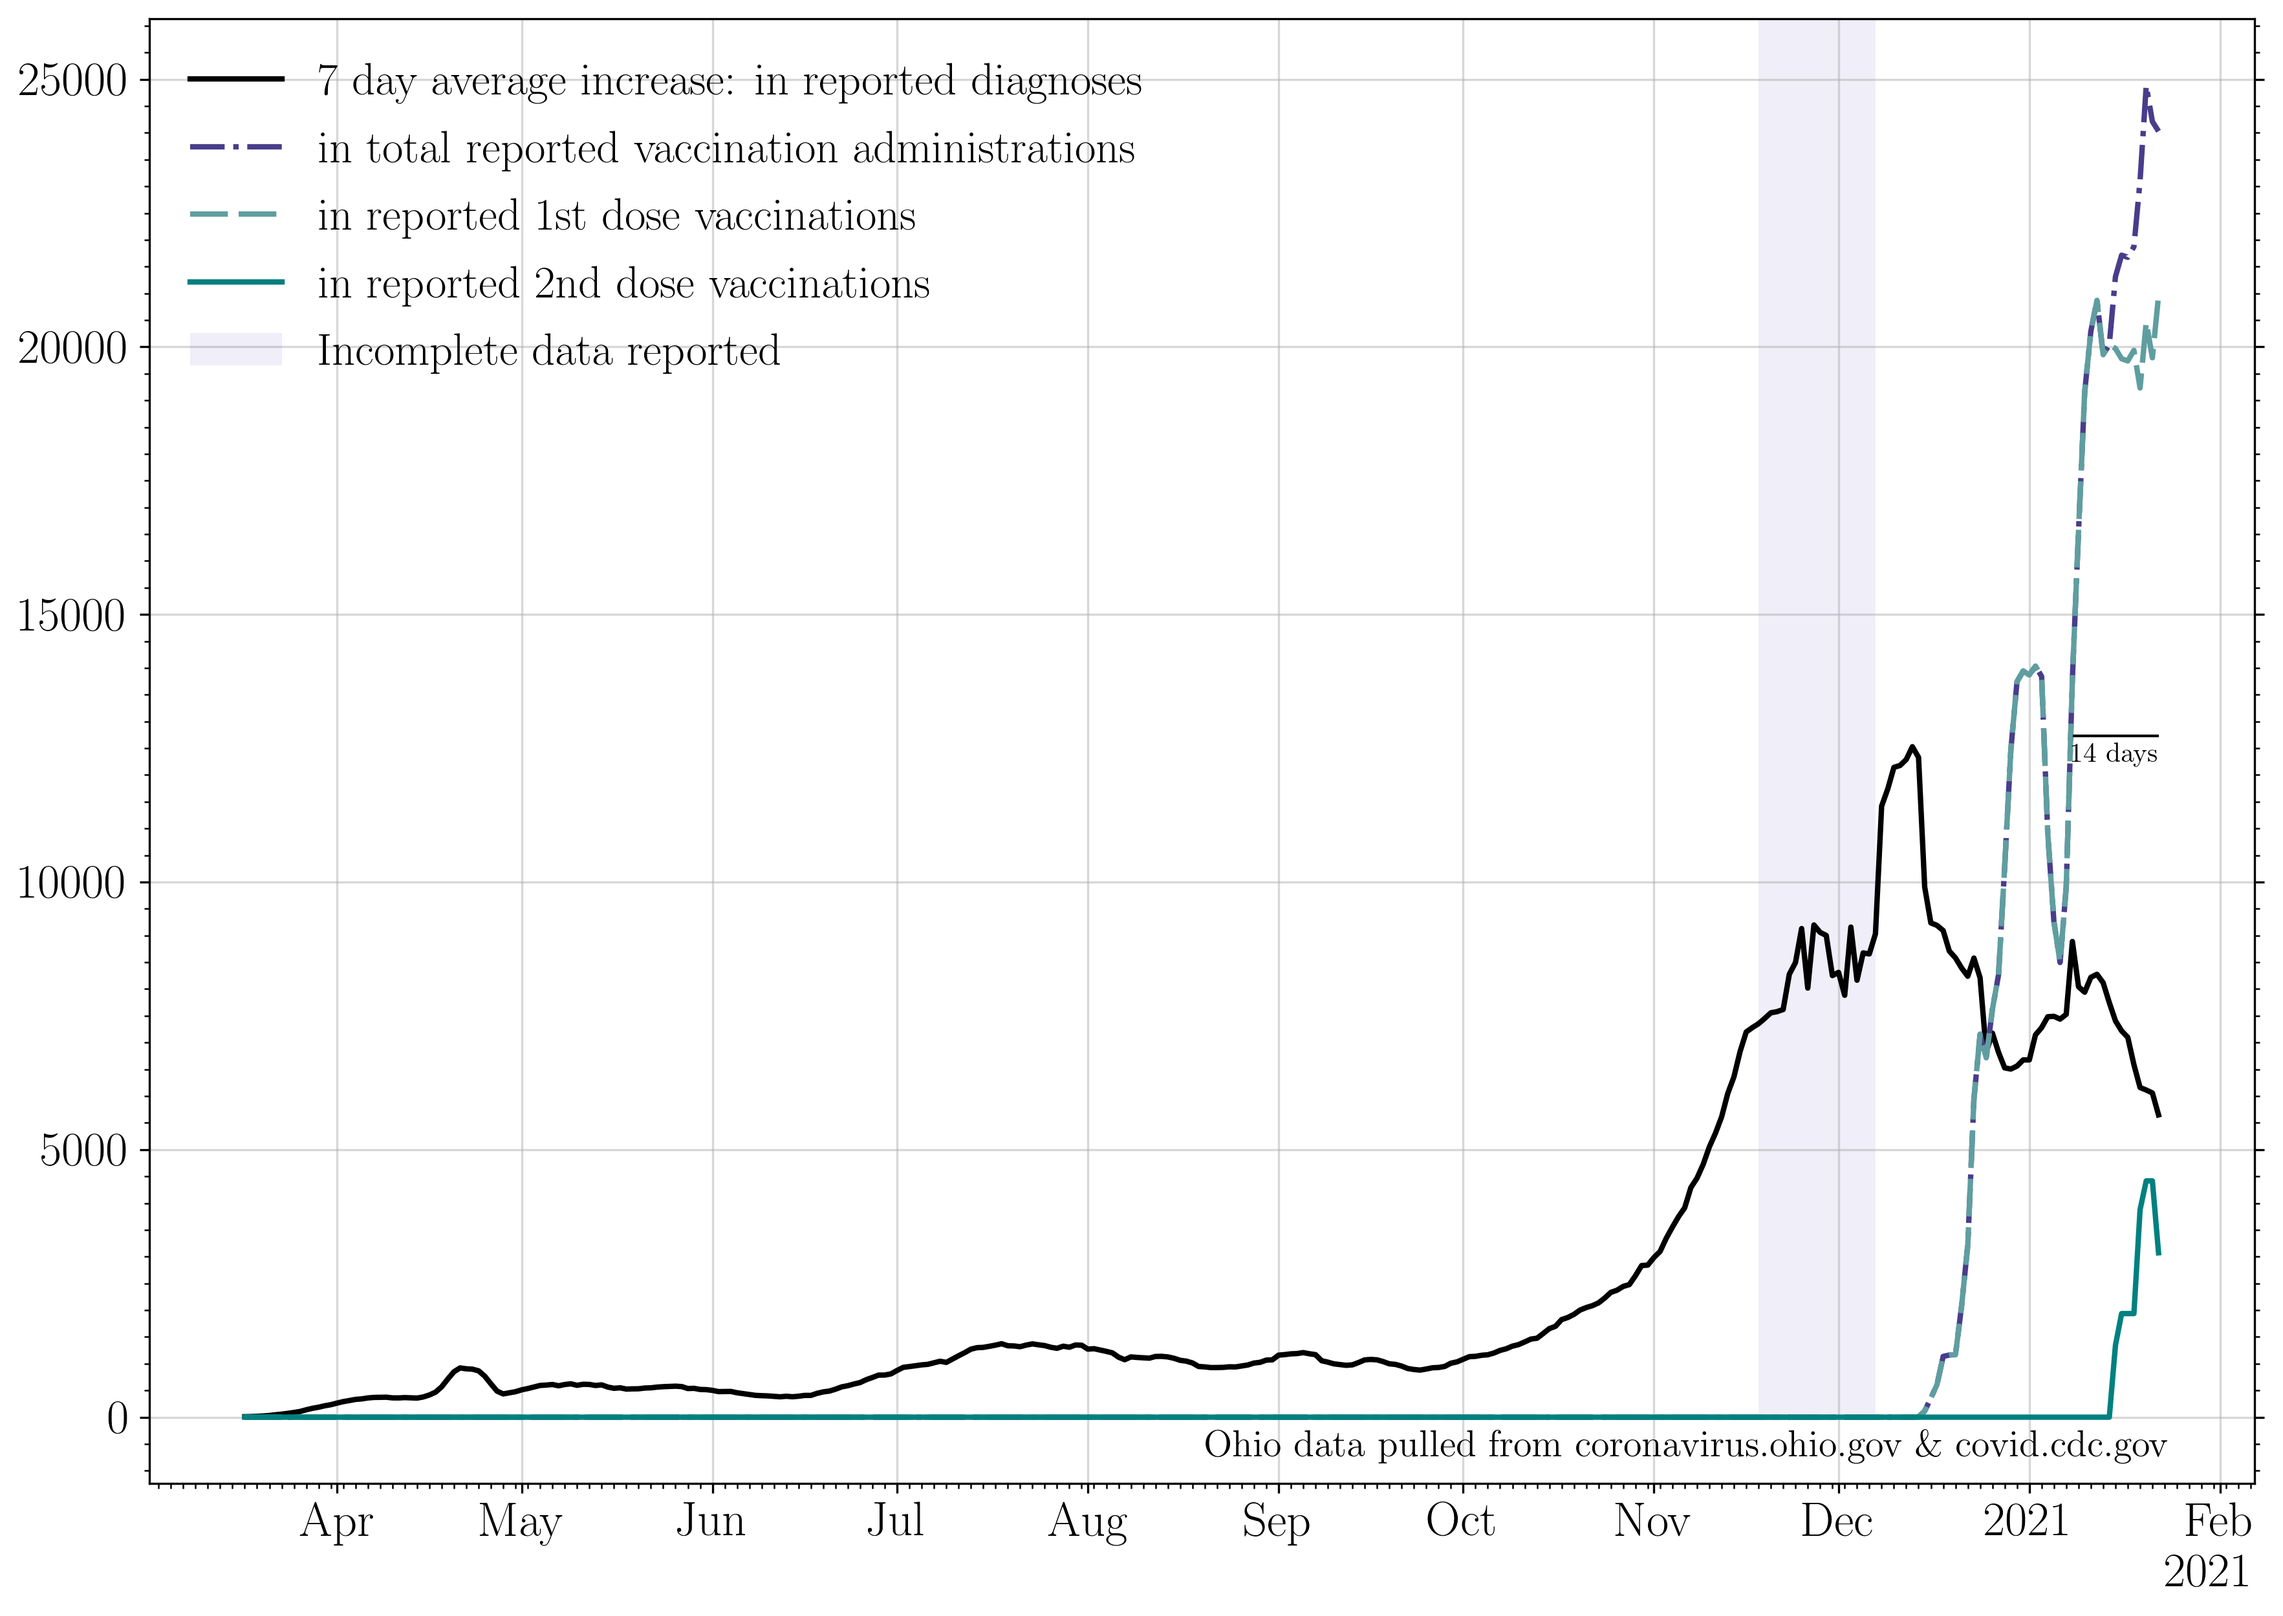
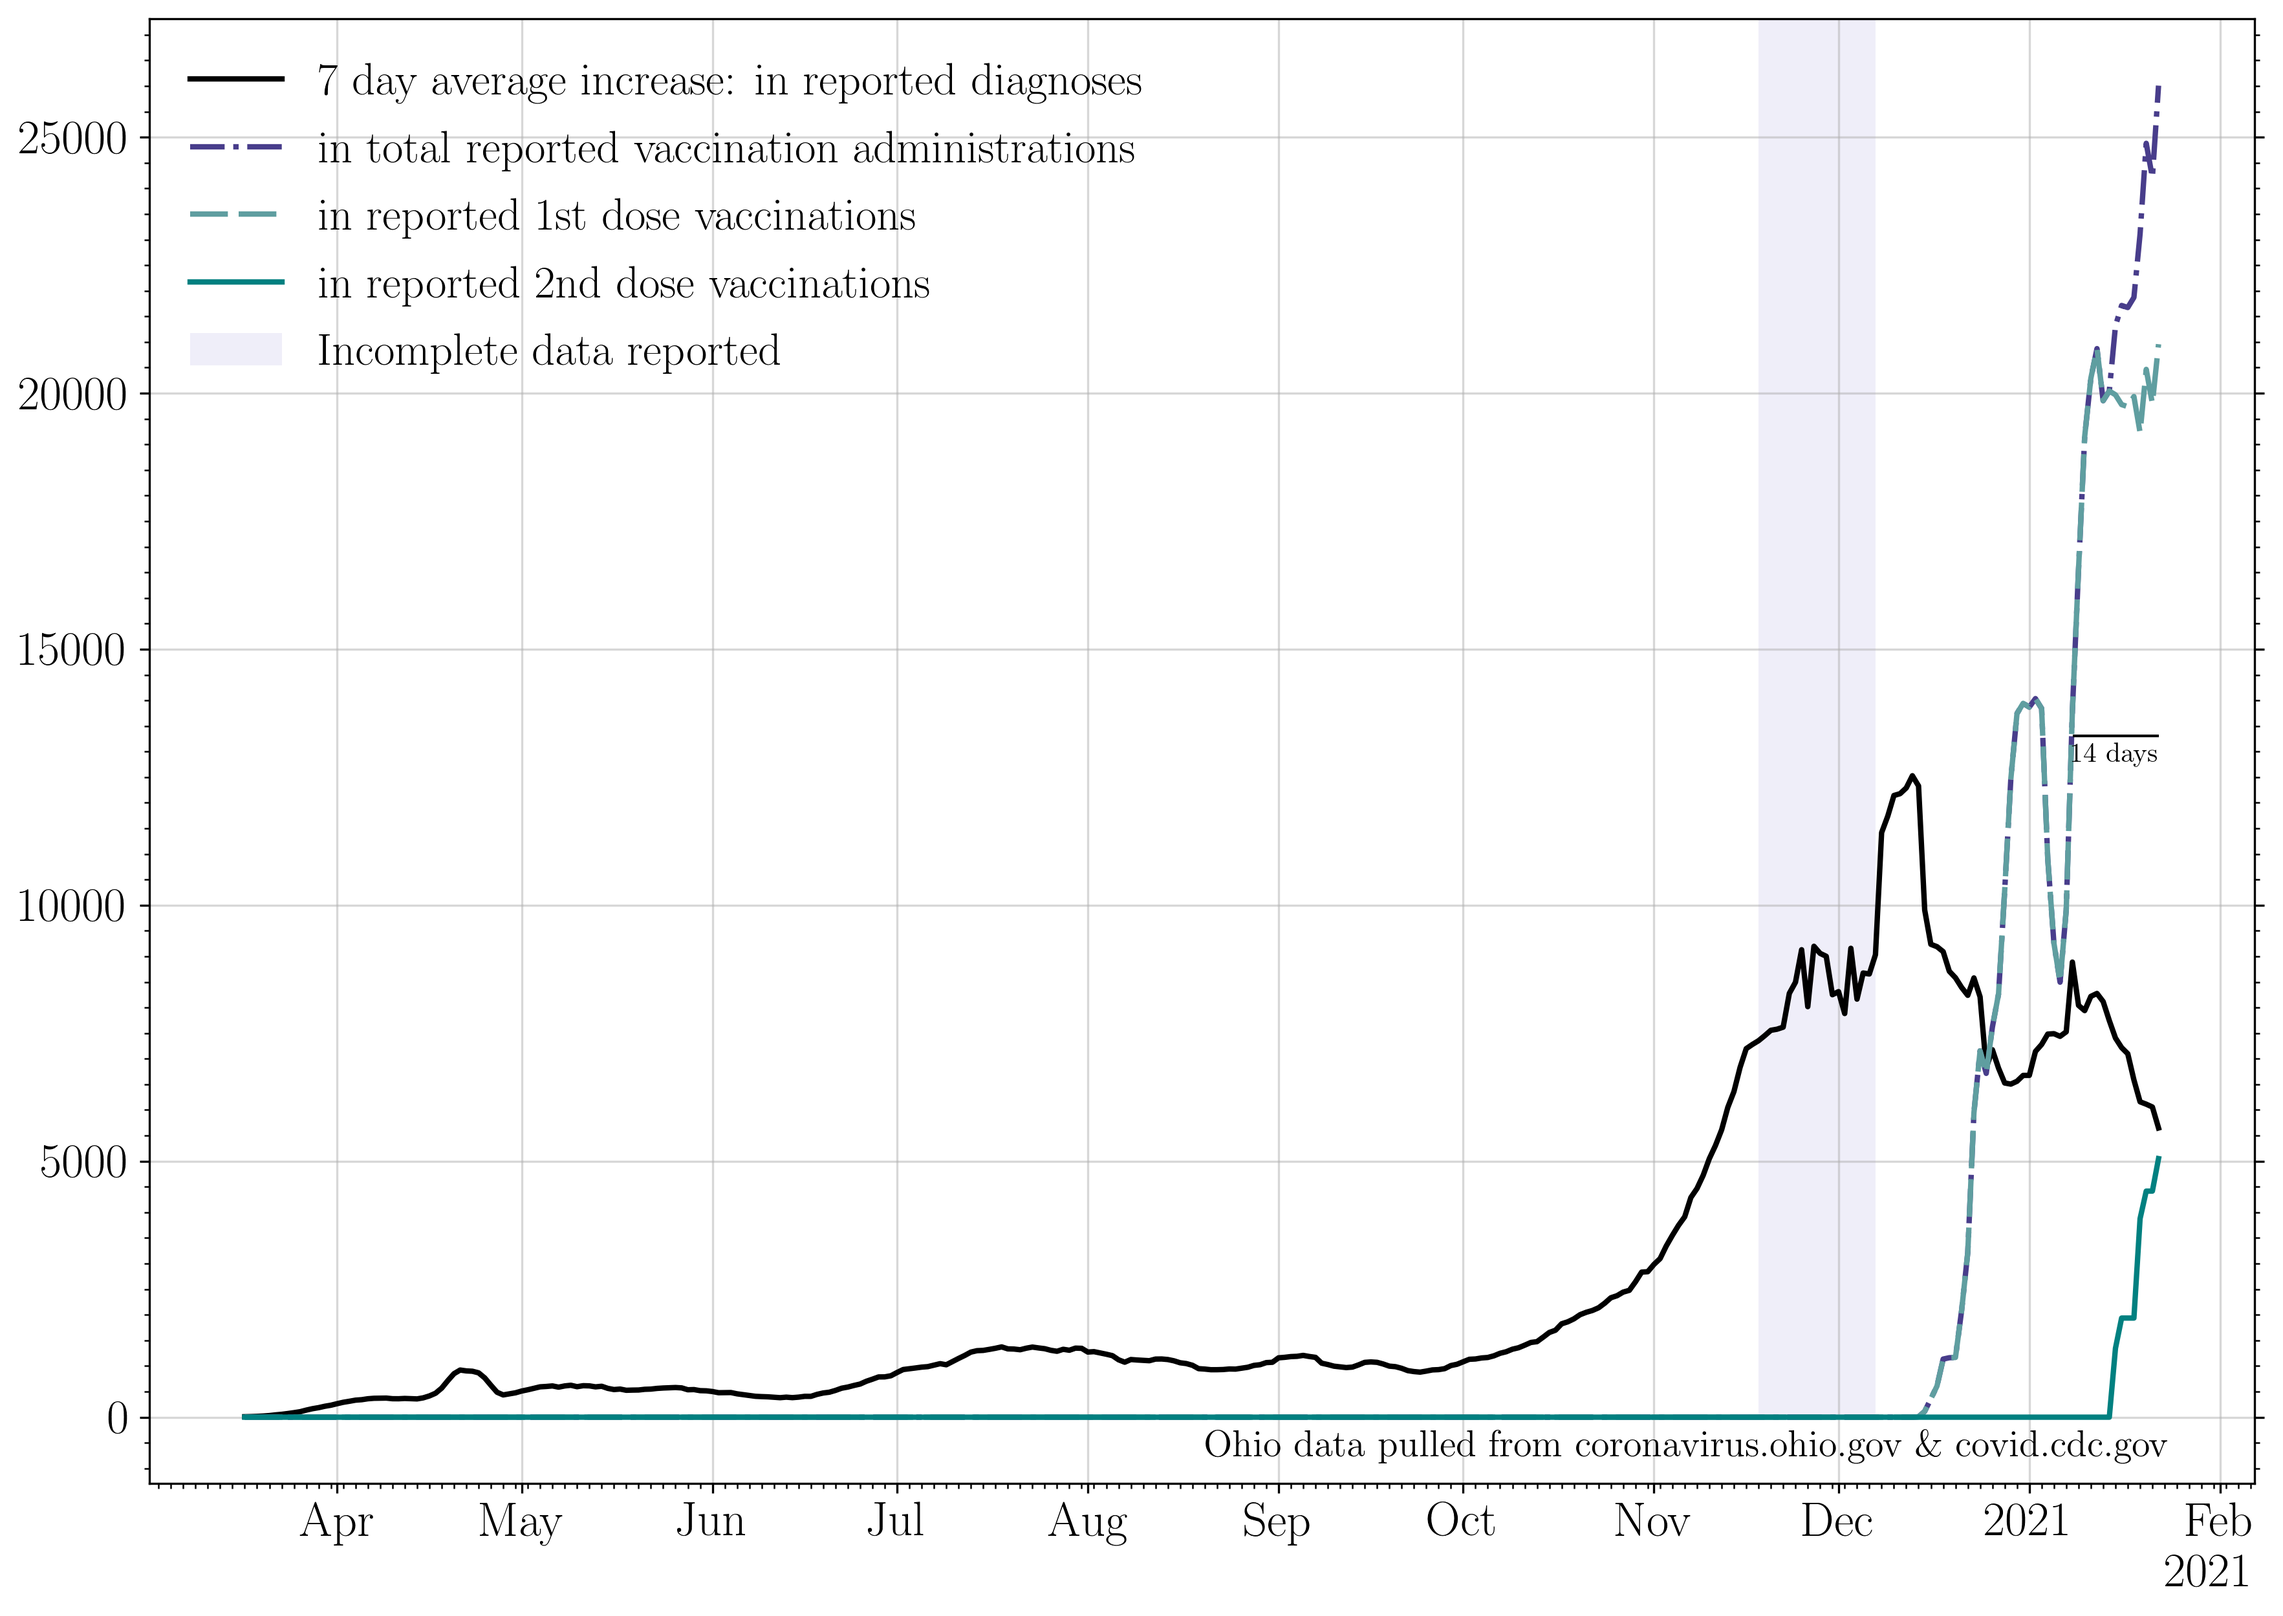
Update with new CDC 2nd vaccination data

diff --git a/index.md b/index.md
@@ -72,8 +72,8 @@ The cumulative number of first and second round vaccinations. If no new events w
 >The current total number of first round vaccinations is equivalent to 1 person out of every 22 in the state of Ohio having begun their vaccination sequence.
 >This is 4.58 percent of the population of Ohio.
 
->The current total number of second round vaccinations is equivalent to 1 person out of every 378 in the state of Ohio having completed their vaccination sequence.
->This is 0.26 percent of the population of Ohio.
+>The current total number of second round vaccinations is equivalent to 1 person out of every 261 in the state of Ohio having completed their vaccination sequence.
+>This is 0.38 percent of the population of Ohio.
 
 >It has not yet been 2 weeks since second dose administration. No one is fully protected by their vaccine yet.
 
